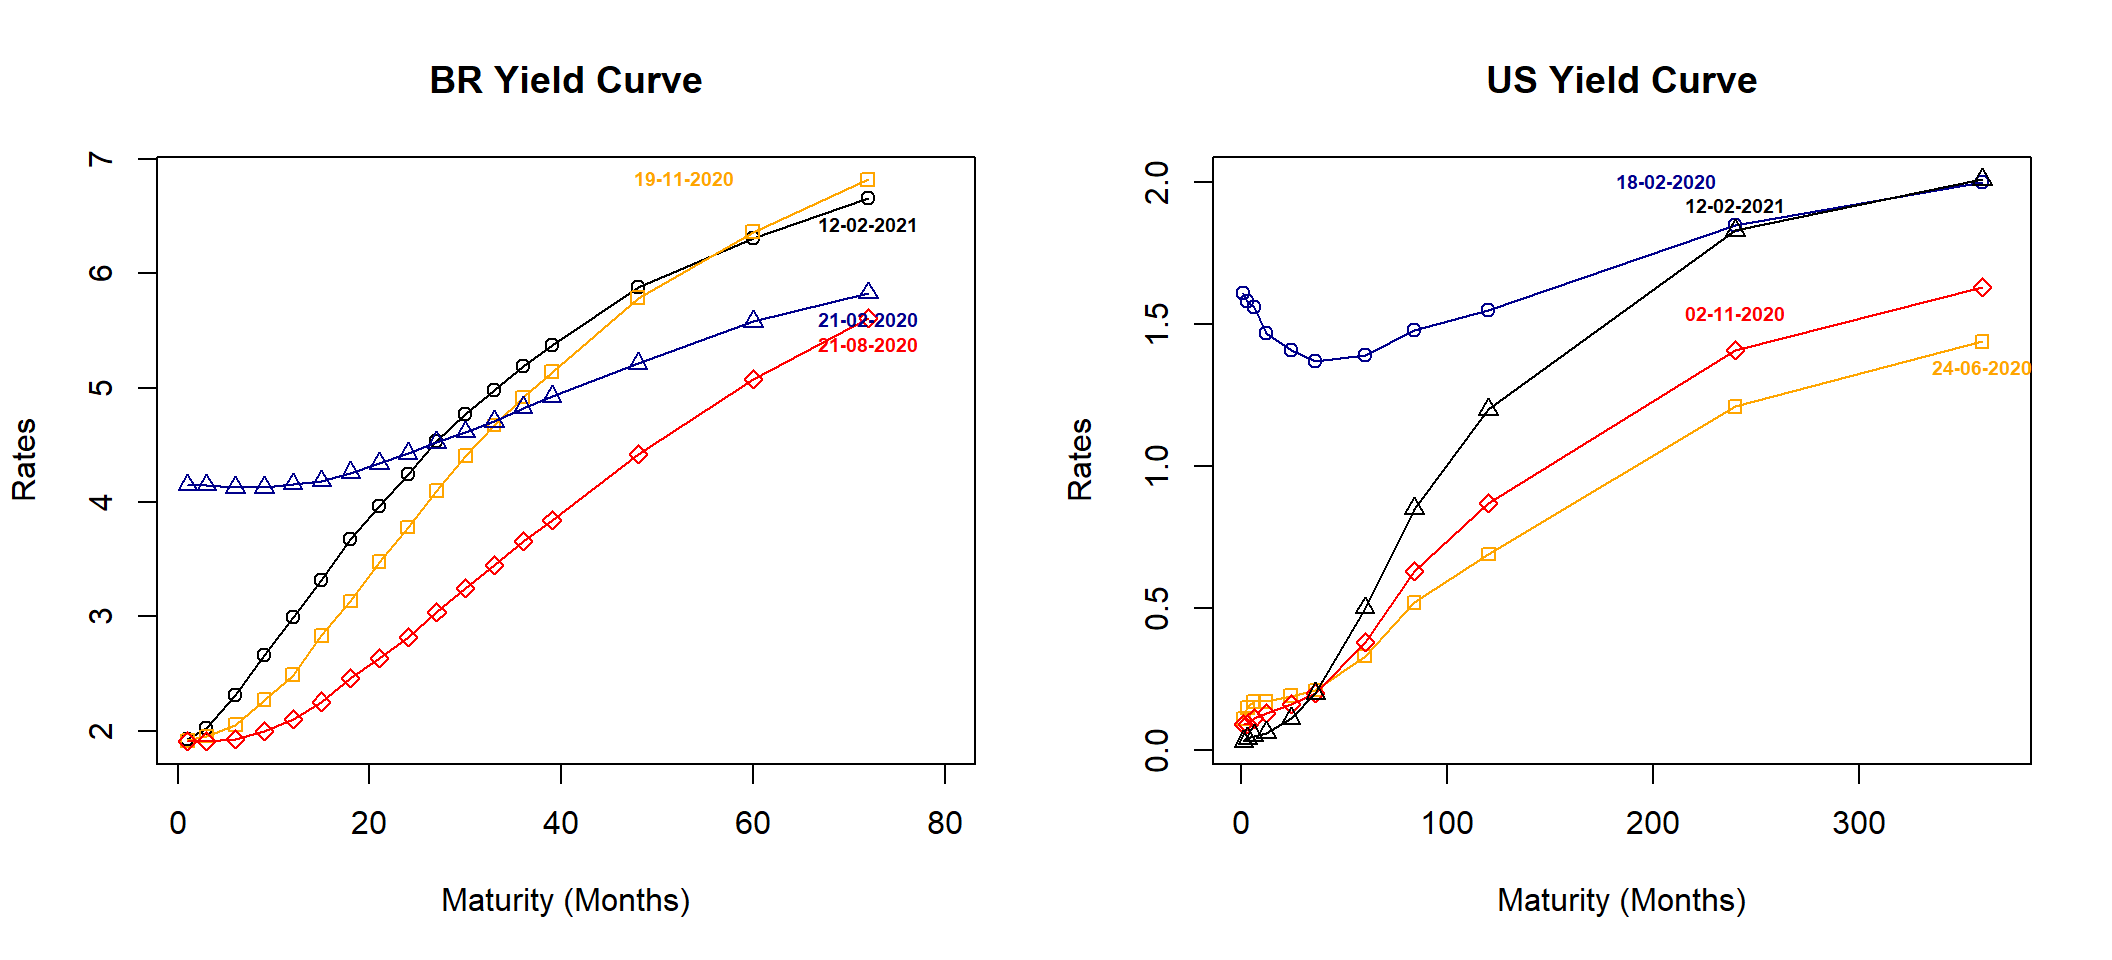
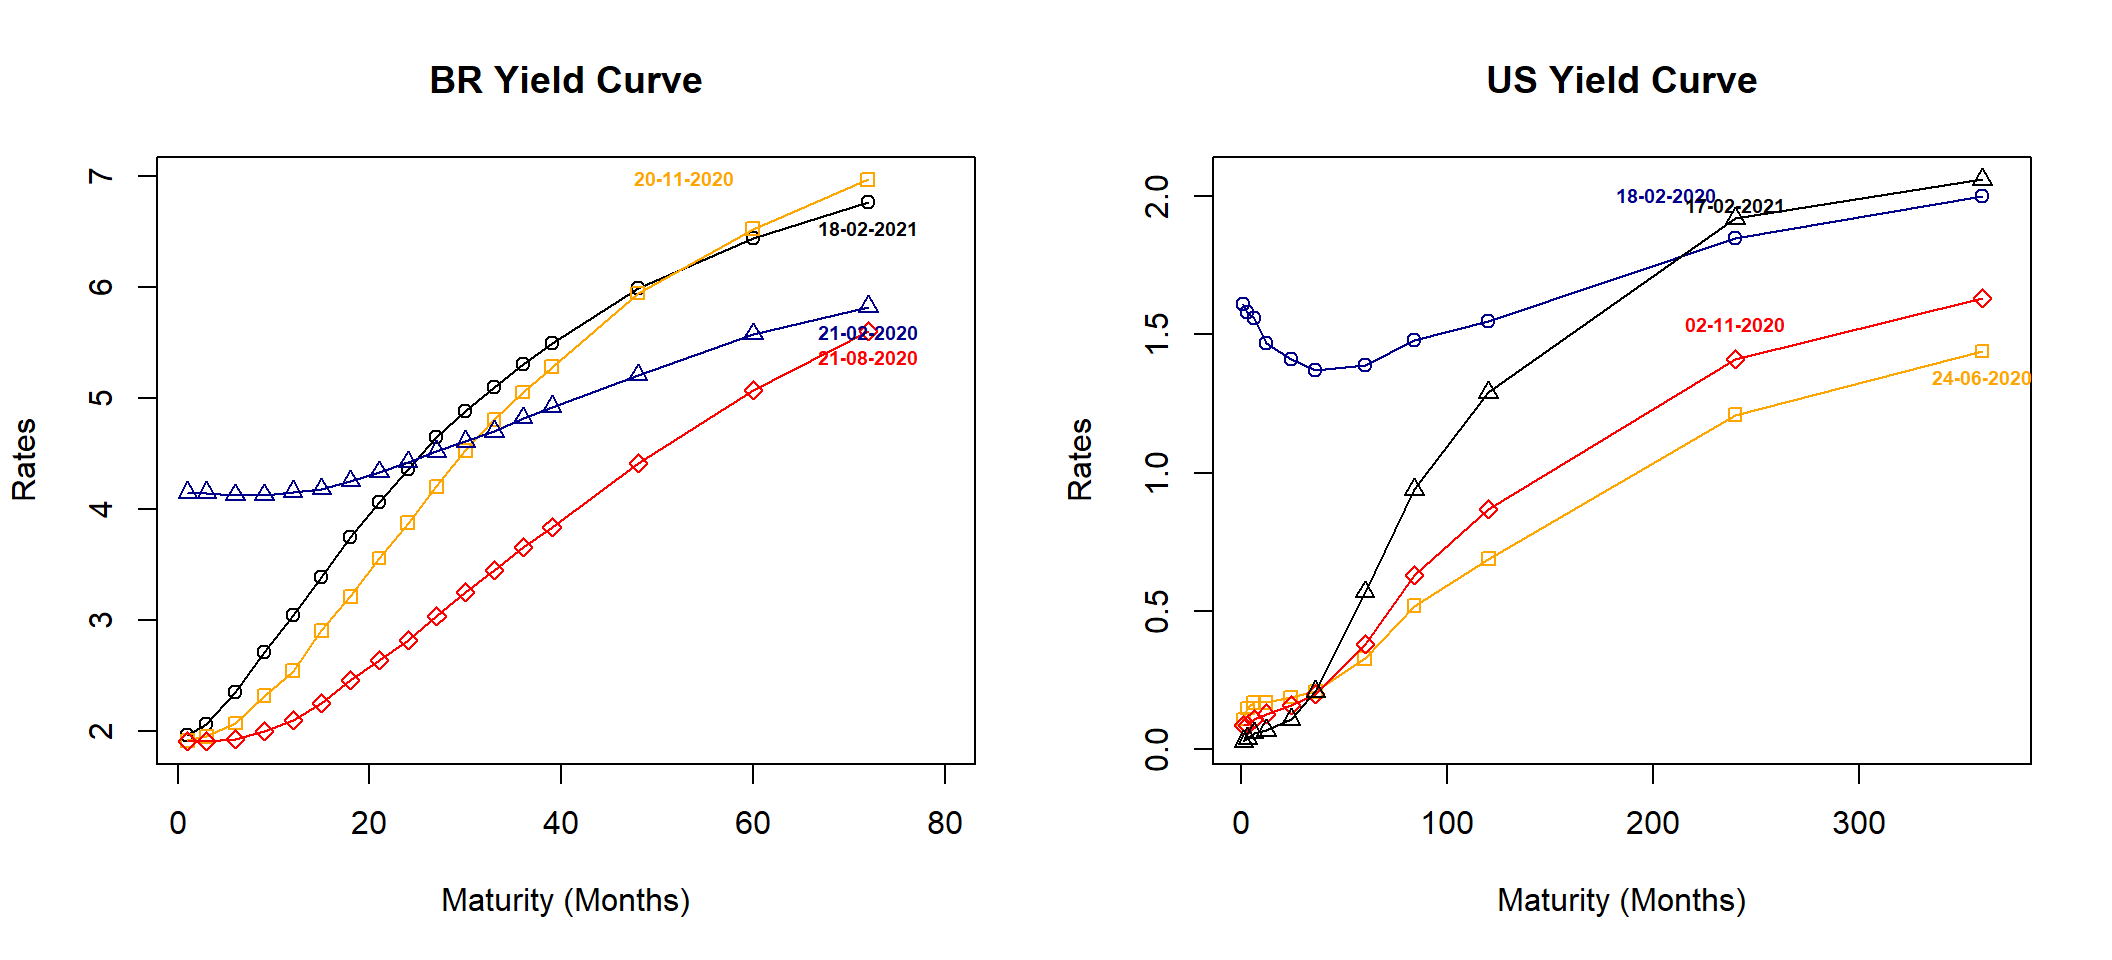
Add files via upload

diff --git a/index.html b/index.html
@@ -325,7 +325,7 @@ $(document).ready(function () {
 
 
 <h1 class="title toc-ignore">Yield Curves of BR, US, CN, and RU</h1>
-<h4 class="date">17/02/2021</h4>
+<h4 class="date">19/02/2021</h4>
 
 </div>
 
